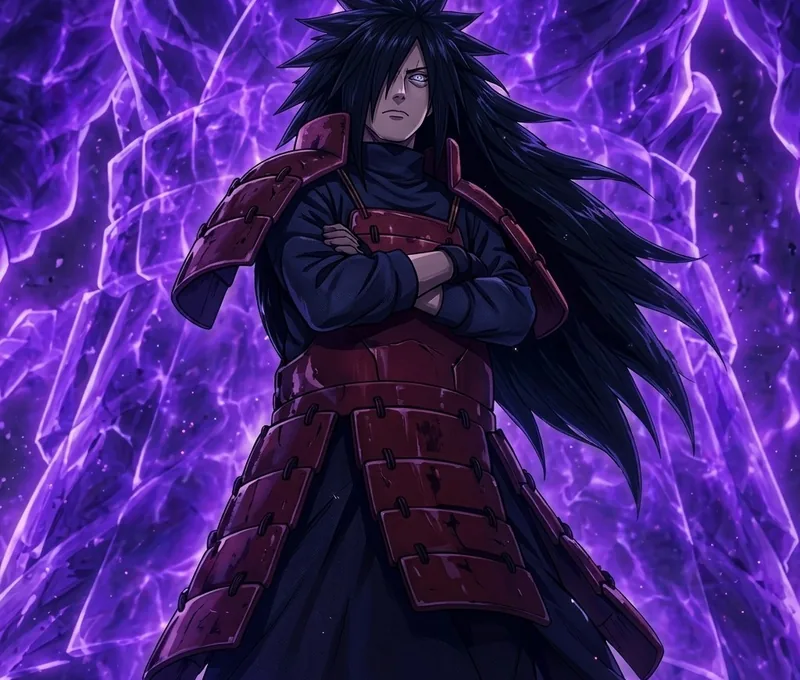
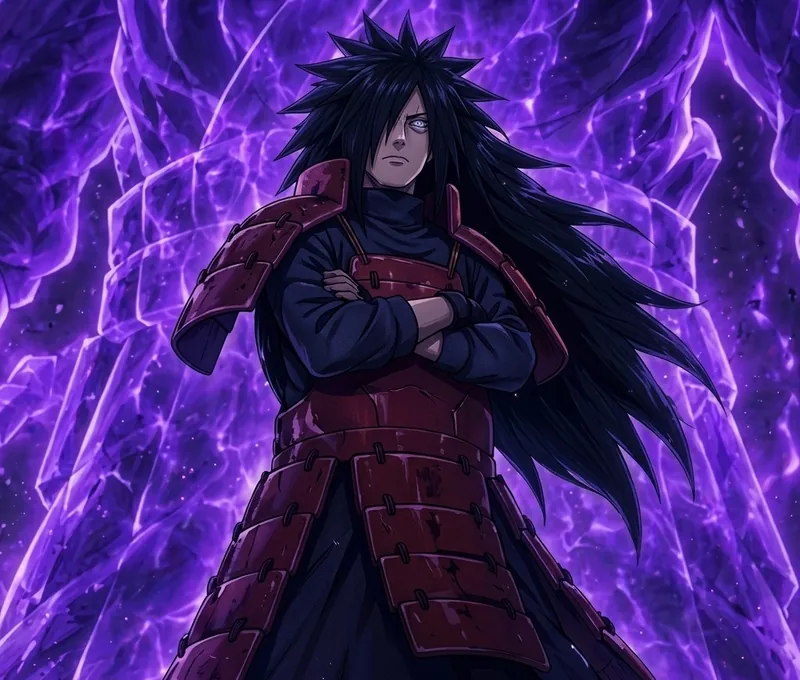
Crop Madara art from the bottom, keep the hair
The image optimizer gets a per-image vertical crop setting
(RECORTE_VERTICAL); Madara uses 0 so only the bottom is trimmed.

diff --git a/docs/supabase/verificar-raid.ts b/docs/supabase/verificar-raid.ts
@@ -3360,7 +3360,7 @@ __e.default = {
   nombre: 'Madara',
   rol: 'Daño',
   sobres: ['bloodline', 'phantom'],  // sobres de la tienda (ver js/datos/sobres.js)
-  emoji: '🔥', color: '#b91c1c', imagen: 'assets/personajes/madara-uchiha.webp?v=3',
+  emoji: '🔥', color: '#b91c1c', imagen: 'assets/personajes/madara-uchiha.webp?v=4',
   base: { hp: 750, dmg: 75, spd: 110 },
   extra: {},                                   // secundarias por encima de la base común
   slots: espacios('obsidiana', 'yelmo', 'anilloCobre'),

diff --git a/prototipo/js/datos/personajes/madara-uchiha.js b/prototipo/js/datos/personajes/madara-uchiha.js
@@ -7,7 +7,7 @@ export default {
   nombre: 'Madara',
   rol: 'Daño',
   sobres: ['bloodline', 'phantom'],  // sobres de la tienda (ver js/datos/sobres.js)
-  emoji: '🔥', color: '#b91c1c', imagen: 'assets/personajes/madara-uchiha.webp?v=3',
+  emoji: '🔥', color: '#b91c1c', imagen: 'assets/personajes/madara-uchiha.webp?v=4',
   base: { hp: 750, dmg: 75, spd: 110 },
   extra: {},                                   // secundarias por encima de la base común
   slots: espacios('obsidiana', 'yelmo', 'anilloCobre'),

diff --git a/prototipo/herramientas/optimizar_imagenes.py b/prototipo/herramientas/optimizar_imagenes.py
@@ -46,9 +46,15 @@ def slug(path: Path) -> str:
 
 
 # ---------------------------------------------------------------- personajes
+# Altura del recorte por imagen (0 = conserva toda la parte de arriba y recorta solo abajo; 1 = al revés). Por defecto 0.35.
+RECORTE_VERTICAL = {
+    'madara-uchiha': 0.0,   # 2026-11-06: no cortar el pelo
+}
+
+
 def personaje(src: Path, dst: Path):
     im = ImageOps.exif_transpose(Image.open(src)).convert('RGB')
-    im = ImageOps.fit(im, PERSONAJE_SIZE, Image.LANCZOS, centering=(0.5, 0.35))
+    im = ImageOps.fit(im, PERSONAJE_SIZE, Image.LANCZOS, centering=(0.5, RECORTE_VERTICAL.get(slug(src), 0.35)))
     im.save(dst, 'WEBP', quality=82, method=6)
 
 
